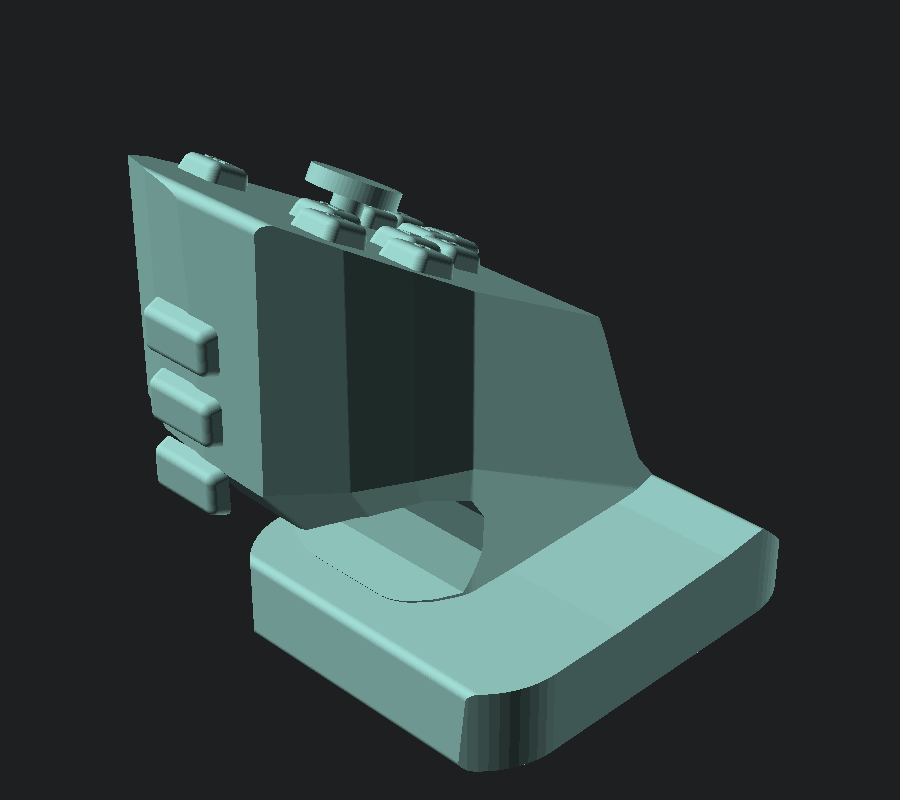
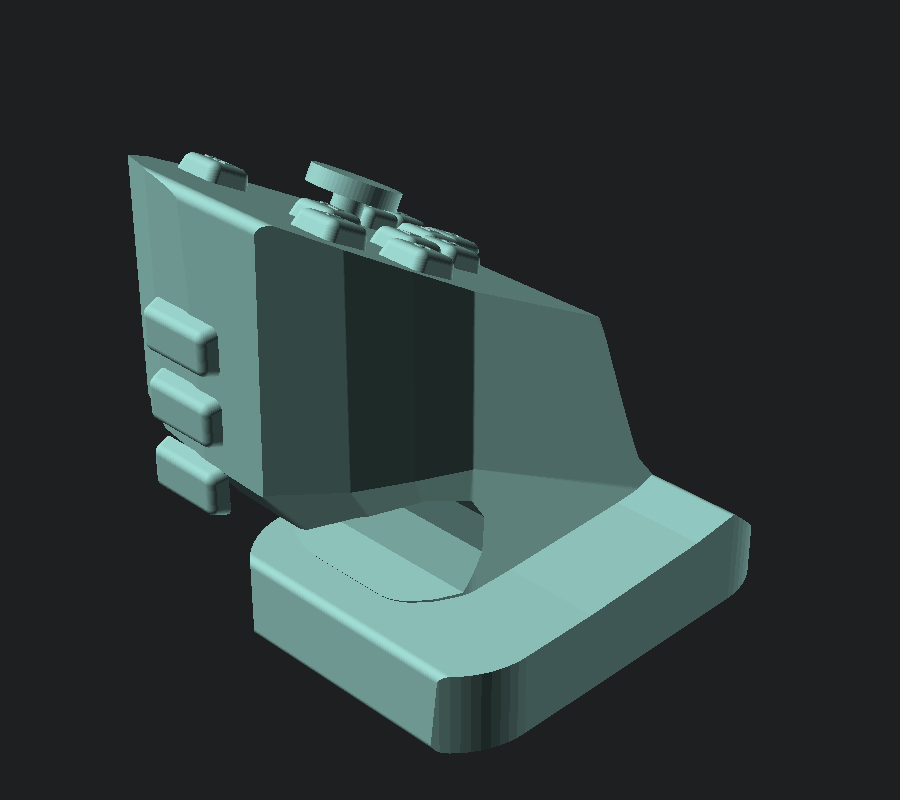
Overview: add v6 renders at 29 and 35 degrees
Claude-Session: https://claude.ai/code/session_01ThzuGXK6S7NqYLh6Nf2WKa

Changed region(s): [[0.4667, 0.625, 0.8711, 0.9688]]

diff --git a/docs/overview/index.html b/docs/overview/index.html
@@ -490,6 +490,8 @@ section[role="tabpanel"]{min-width:0}
   <div class="shots">
     <figure><img src="img/v6_29_side.png" alt="試作6号(29度)を手のひら側の横から見た図" width="900" height="800"><figcaption>試作6号 29°(手のひら側から。左が前)</figcaption></figure>
     <figure><img src="img/v6_35_side.png" alt="試作6号(35度)を手のひら側の横から見た図" width="900" height="800"><figcaption>試作6号 35°</figcaption></figure>
+    <figure><img src="img/v6_29_iso.png" alt="試作6号(29度)を斜め上から見た図" width="900" height="800"><figcaption>29° 斜め上から(前面に3つのボタン)</figcaption></figure>
+    <figure><img src="img/v6_35_iso.png" alt="試作6号(35度)を斜め上から見た図" width="900" height="800"><figcaption>35° 斜め上から</figcaption></figure>
   </div>
 
   <h2>次にやること</h2>
